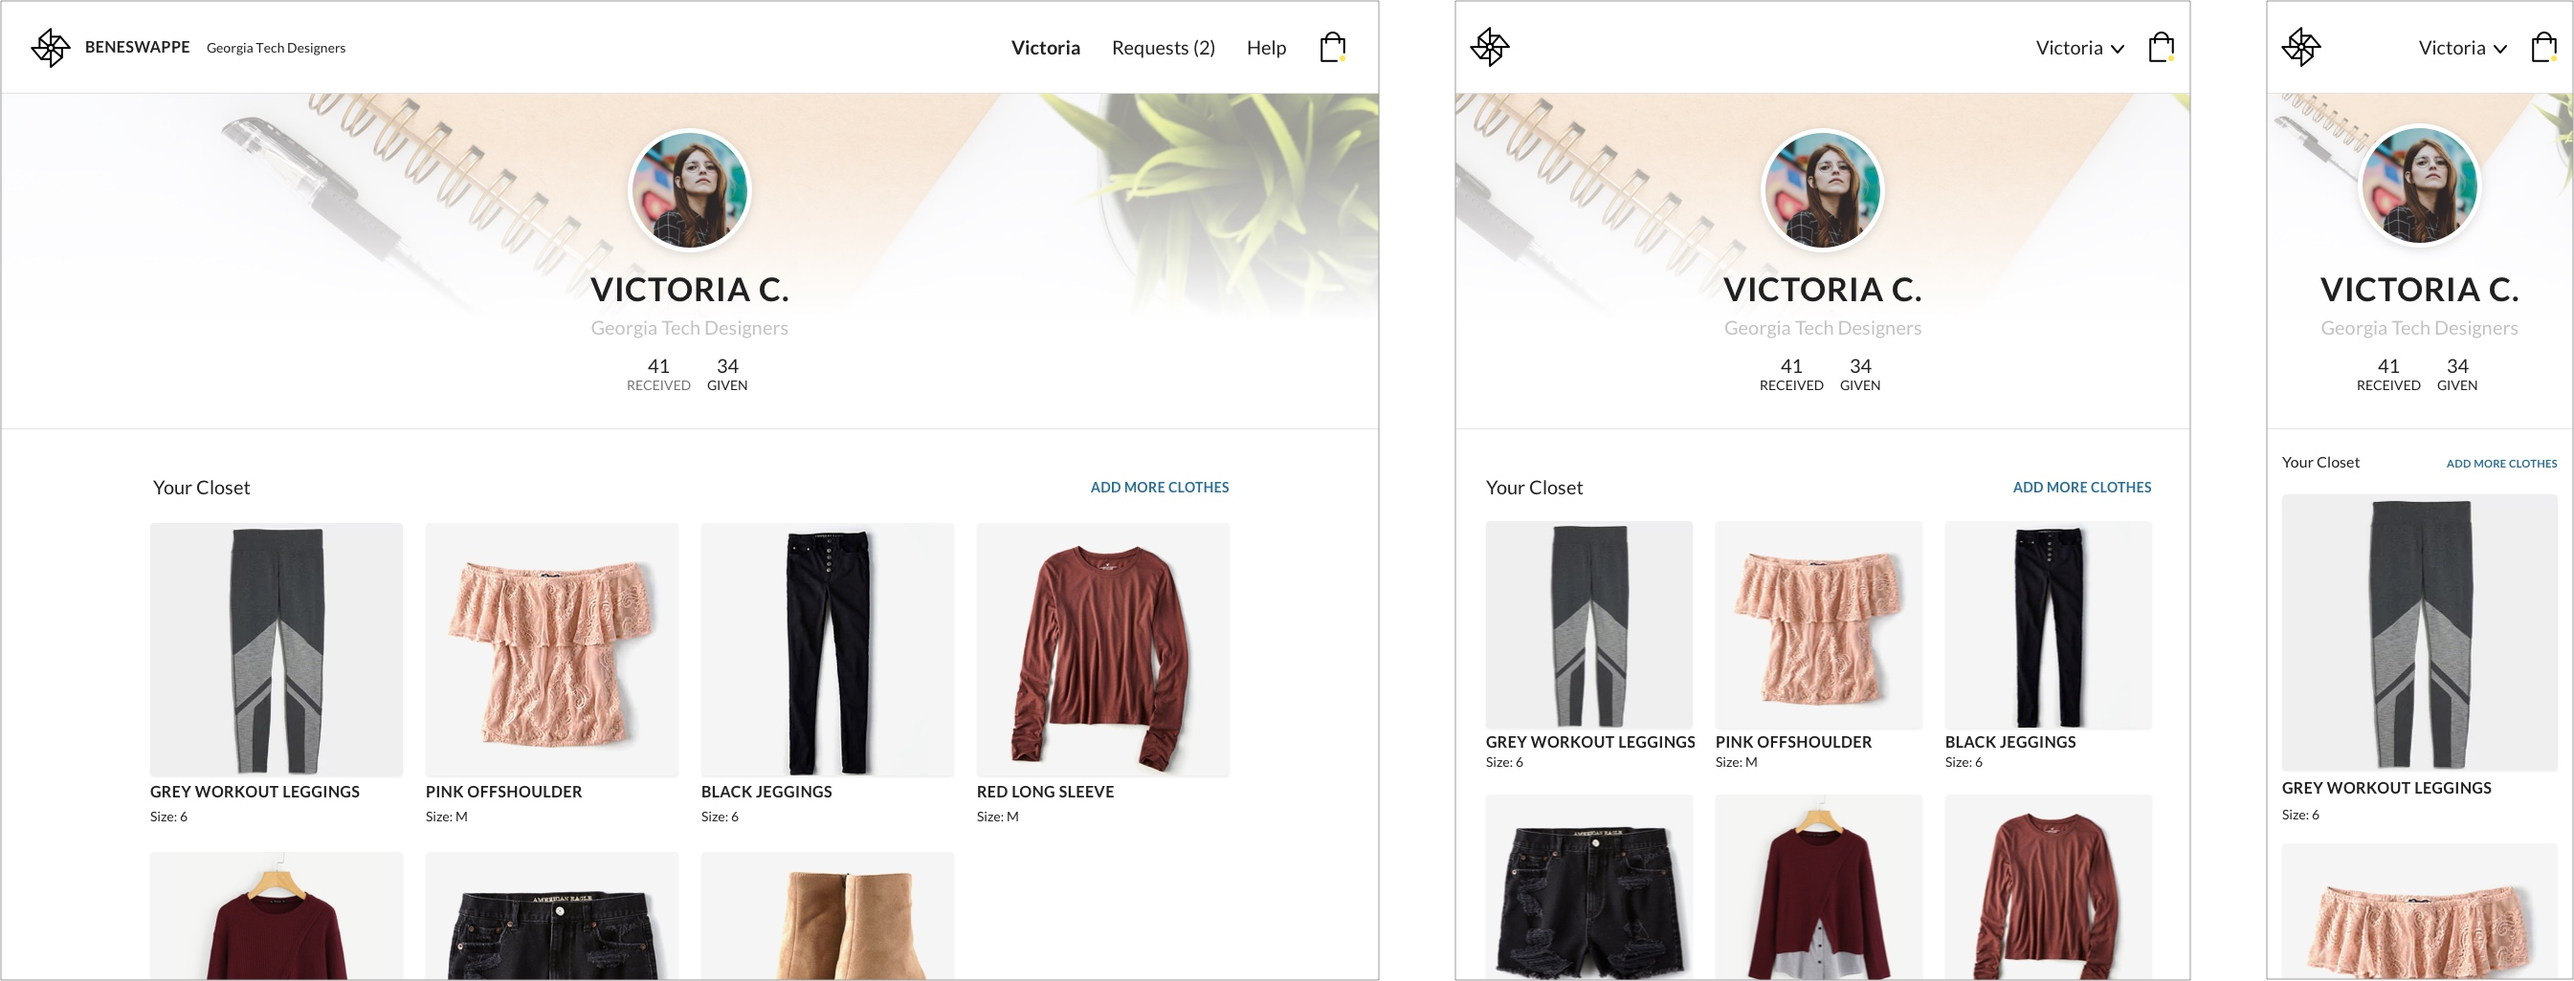
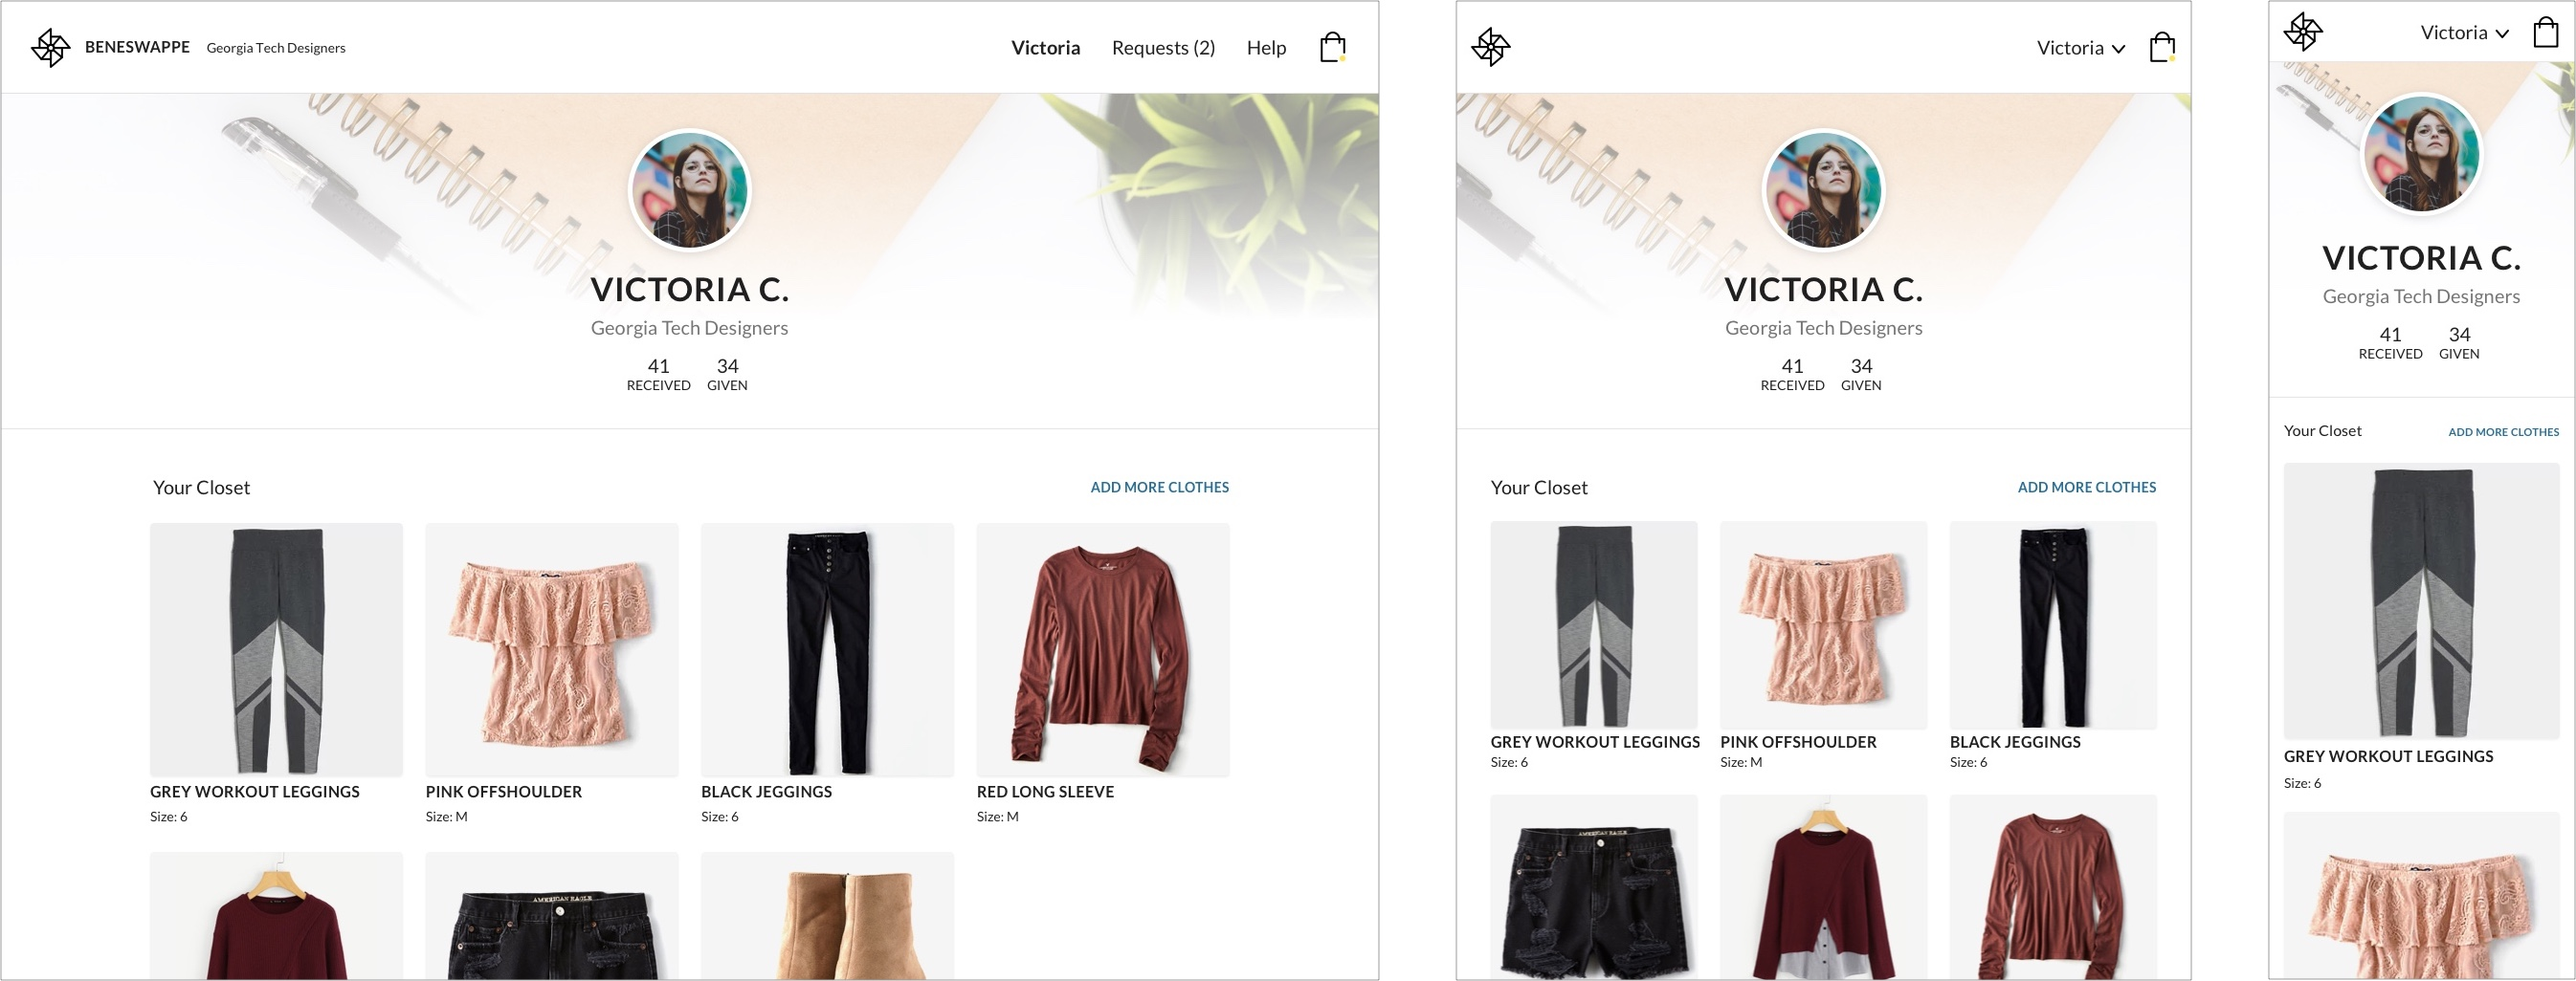
fixed some stuff for beneswappe

diff --git a/beneswappe.html b/beneswappe.html
@@ -448,7 +448,7 @@
 				<div class="row">
 					<div class="col-md-12">
 						<p class="text-center section-subtitle">Quick user feedback</p>
-						<p>Throughout my design process, I consistently asked users for their feedback. When I would have a few screens done, I would put them into InVision to get quick responses.</p>
+						<p>Throughout my design process, I consistently asked users for their feedback. When I would have a few screens done, I would put them into InVision to get quick responses. Below is an example of a feature I took out because I talked to users.</p>
 					</div>
 				</div>
 			</div>
@@ -481,7 +481,7 @@
 				<div class="row">
 					<div class="col-md-12">
 						<p class="text-center section-subtitle">Interface design</p>
-						<p>I created comps for 3 screen sizes: desktop, tablet, and mobile.</p>
+						<p>I created comps for 3 screen sizes: mobile, tablet, and desktop. I started designing <b>mobile first</b>. Because of the screen constraint, this helped me determine what were the most important functionalities to include and prioritize effectively.</p>
 						<p class="text-center add-small-margin"><b>Individual Page</b></p>
 						<p>On the individual page, you can see what group you are currently in, the number of items they have sent and received, and the clothes in your closet. You can also add new clothes to your closet from this page.</p>
 					</div>
@@ -493,20 +493,20 @@
 
 				<div class="row">
 					<div class="col-md-12 text-center">
-						<img src="images/beneswappe/screens/individual-page.jpg" class="img-responsive center-block add-small-margin slightly-larger-than-medium-large-image"/><br>
+						<img src="images/beneswappe/screens/individual-page.jpg" class="img-responsive center-block add-small-margin large-image"/><br>
 						<p class="caption">Individual page</p>
 					</div>
 				</div>
 
-				<div class="row">
+				<div class="row add-small-margin">
 					<div class="col-md-4 col-md-offset-2 text-center">
-						<img src="images/beneswappe/screens/add-your-clothes.jpg" class="img-responsive center-block add-small-margin slightly-larger-than-medium-large-image"/><br>
-						<p class="caption">Adding clothes modal</p>
+						<img src="images/beneswappe/screens/add-your-clothes.jpg" class="img-responsive center-block large-image"/><br>
+						<p class="caption">Adding clothes modal (desktop/tablet)</p>
 					</div>
 
 					<div class="col-md-4 text-center">
-						<img src="images/beneswappe/screens/edit-your-clothes.jpg" class="img-responsive center-block add-small-margin slightly-larger-than-medium-large-image"/><br>
-						<p class="caption">Editing clothes modal</p>
+						<img src="images/beneswappe/screens/edit-your-clothes.jpg" class="img-responsive center-block large-image"/><br>
+						<p class="caption">Editing clothes modal (desktop/tablet)</p>
 					</div>
 				</div>
 
@@ -533,7 +533,7 @@
 
 				<div class="row">
 					<div class="col-md-12 text-center">
-						<img src="images/beneswappe/screens/all-closets.jpg" class="img-responsive center-block add-small-margin slightly-larger-than-medium-large-image"/>
+						<img src="images/beneswappe/screens/all-closets.jpg" class="img-responsive center-block add-small-margin large-image"/>
 						<br><p class="caption">All Closets</p>
 					</div>
 				</div>
@@ -541,7 +541,7 @@
 
 				<div class="row">
 					<div class="col-md-12 text-center">
-						<img src="images/beneswappe/screens/individual-closet.jpg" class="img-responsive center-block add-small-margin slightly-larger-than-medium-large-image"/>
+						<img src="images/beneswappe/screens/individual-closet.jpg" class="img-responsive center-block add-small-margin large-image"/>
 						<br><p class="caption">Individual Closet</p>
 					</div>
 				</div>
@@ -564,7 +564,7 @@
 
 				<div class="row">
 					<div class="col-md-12 text-center">
-						<img src="images/beneswappe/screens/all-clothing.jpg" class="img-responsive center-block add-small-margin slightly-larger-than-medium-large-image"/>
+						<img src="images/beneswappe/screens/all-clothing.jpg" class="img-responsive center-block add-small-margin large-image"/>
 						<br><p class="caption">All Clothing</p>
 					</div>
 				</div>
@@ -572,14 +572,14 @@
 
 				<div class="row">
 					<div class="col-md-12 text-center">
-						<img src="images/beneswappe/screens/filter.jpg" class="img-responsive center-block add-small-margin slightly-larger-than-medium-large-image"/>
+						<img src="images/beneswappe/screens/filter.jpg" class="img-responsive center-block add-small-margin large-image"/>
 						<br><p class="caption">Adding a filter</p>
 					</div>
 				</div>
 
 				<div class="row">
 					<div class="col-md-12 text-center">
-						<img src="images/beneswappe/screens/cart.jpg" class="img-responsive center-block add-small-margin slightly-larger-than-medium-large-image"/>
+						<img src="images/beneswappe/screens/cart.jpg" class="img-responsive center-block add-small-margin large-image"/>
 						<br><p class="caption">Viewing your bag</p>
 					</div>
 				</div>
@@ -605,7 +605,7 @@
 
 				<div class="row">
 					<div class="col-md-12 text-center">
-						<img src="images/beneswappe/screens/received-requests.jpg" class="img-responsive center-block add-small-margin slightly-larger-than-medium-large-image"/>
+						<img src="images/beneswappe/screens/received-requests.jpg" class="img-responsive center-block add-small-margin large-image"/>
 						<br><p class="caption">Requests received</p>
 					</div>
 				</div>
@@ -613,14 +613,14 @@
 
 				<div class="row">
 					<div class="col-md-12 text-center">
-						<img src="images/beneswappe/screens/sent-requests.jpg" class="img-responsive center-block add-small-margin slightly-larger-than-medium-large-image"/>
+						<img src="images/beneswappe/screens/sent-requests.jpg" class="img-responsive center-block add-small-margin large-image"/>
 						<br><p class="caption">Requests sent</p>
 					</div>
 				</div>
 
 				<div class="row">
 					<div class="col-md-12 text-center">
-						<img src="images/beneswappe/screens/one-request.jpg" class="img-responsive center-block add-small-margin slightly-larger-than-medium-large-image"/>
+						<img src="images/beneswappe/screens/one-request.jpg" class="img-responsive center-block add-small-margin large-image"/>
 						<br><p class="caption">Single request</p>
 					</div>
 				</div>
